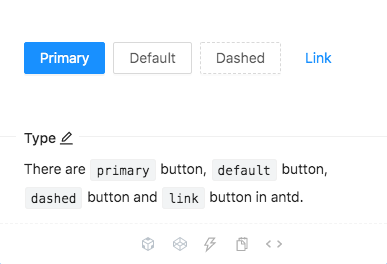
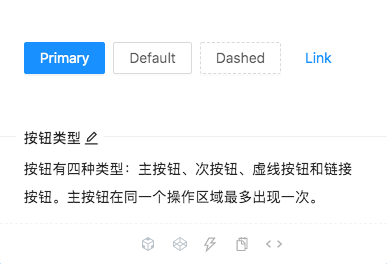
更新图片

Changed region(s): [[0.062, 0.6061, 0.9302, 0.6667], [0.062, 0.697, 0.8062, 0.7879], [0.062, 0.4848, 0.2481, 0.5758]]

diff --git a/src/service/fallback/antd-fallback.js b/src/service/fallback/antd-fallback.js
@@ -19,9 +19,9 @@ export default {
       "features": [
         "antd"
       ],
-      "__HASH__": [
-        "https://derek-hu.github.io/store/screenshots/antd/0-zh-5db07ce7.png"
-      ],
+      "__HASH__": {
+        "zh": "https://derek-hu.github.io/store/screenshots/antd/0-zh-5db07ce7.png"
+      },
       "__DESCRIPTION__": {
         "en": "E-mail Password Confirm Password Nickname Habitual Residence Zhejiang / Hangzhou / West Lake Phone Number +86 Website website Captcha Get captcha We must make sure that your are a human. I have read the agreement Register 注册新用户 用户填写必须的信息以注册新用户。",
         "zh": "E-mail Password Confirm Password Nickname Habitual Residence Zhejiang / Hangzhou / West Lake Phone Number +86 Website website Captcha Get captcha We must make sure that your are a human. I have read the agreement Register 注册新用户 用户填写必须的信息以注册新用户。"
@@ -46,11 +46,11 @@ export default {
       "features": [
         "antd"
       ],
-      "__HASH__": [
-        "https://derek-hu.github.io/store/screenshots/antd/1-zh-9688d9db.png"
-      ],
+      "__HASH__": {
+        "zh": "https://derek-hu.github.io/store/screenshots/antd/1-zh-9688d9db.png"
+      },
       "__DESCRIPTION__": {
-        "zh": "PrimaryDefaultDashedLink Type There are primary button, default button, dashed button and link button in antd."
+        "zh": "PrimaryDefaultDashedLink 按钮类型 按钮有四种类型：主按钮、次按钮、虚线按钮和链接按钮。主按钮在同一个操作区域最多出现一次。"
       }
     },
     {
@@ -72,9 +72,9 @@ export default {
       "features": [
         "antd"
       ],
-      "__HASH__": [
-        "https://derek-hu.github.io/store/screenshots/antd/2-zh-f02d731a.png"
-      ],
+      "__HASH__": {
+        "zh": "https://derek-hu.github.io/store/screenshots/antd/2-zh-f02d731a.png"
+      },
       "__DESCRIPTION__": {
         "zh": "Lucy Lucy Lucy Lucy 基本使用 基本使用。"
       }
@@ -98,11 +98,11 @@ export default {
       "features": [
         "antd"
       ],
-      "__HASH__": [
-        "https://derek-hu.github.io/store/screenshots/antd/3-zh-68a11f95.png"
-      ],
+      "__HASH__": {
+        "zh": "https://derek-hu.github.io/store/screenshots/antd/3-zh-68a11f95.png"
+      },
       "__DESCRIPTION__": {
-        "zh": "Open Modal Basic Basic modal."
+        "zh": "Open Modal 基本 第一个对话框。"
       }
     },
     {
@@ -124,9 +124,9 @@ export default {
       "features": [
         "antd"
       ],
-      "__HASH__": [
-        "https://derek-hu.github.io/store/screenshots/antd/4_846fcc04.png"
-      ],
+      "__HASH__": {
+        "zh": "https://derek-hu.github.io/store/screenshots/antd/4-zh-846fcc04.png"
+      },
       "__DESCRIPTION__": {
         "zh": "Name Age Address Tags Action John Brown 32 New York No. 1 Lake Park NICEDEVELOPER Invite John BrownDelete Jim Green 42 London No. 1 Lake Park LOSER Invite Jim GreenDelete Joe Black 32 Sidney No. 1 Lake Park COOLTEACHER Invite Joe BlackDelete 1 基本用法 简单的表格，最后一列是各种操作。"
       }
@@ -150,9 +150,9 @@ export default {
       "features": [
         "antd"
       ],
-      "__HASH__": [
-        "https://derek-hu.github.io/store/screenshots/antd/5_513c99aa.png"
-      ],
+      "__HASH__": {
+        "zh": "https://derek-hu.github.io/store/screenshots/antd/5-zh-513c99aa.png"
+      },
       "__DESCRIPTION__": {
         "zh": "Remember me Forgot password Log inOr register now! 登录框 普通的登录框，可以容纳更多的元素。"
       }
@@ -176,9 +176,9 @@ export default {
       "features": [
         "antd"
       ],
-      "__HASH__": [
-        "https://derek-hu.github.io/store/screenshots/antd/6_99bde7b7.png"
-      ],
+      "__HASH__": {
+        "zh": "https://derek-hu.github.io/store/screenshots/antd/6-zh-99bde7b7.png"
+      },
       "__DESCRIPTION__": {
         "zh": "Log in 内联登录栏 内联登录栏，常用在顶部导航栏中。"
       }
@@ -202,9 +202,9 @@ export default {
       "features": [
         "antd"
       ],
-      "__HASH__": [
-        "https://derek-hu.github.io/store/screenshots/antd/7_ce94fe8c.png"
-      ],
+      "__HASH__": {
+        "zh": "https://derek-hu.github.io/store/screenshots/antd/7-zh-ce94fe8c.png"
+      },
       "__DESCRIPTION__": {
         "zh": "Plain Text China Select Please select a country Select[multiple] Please select favourite colors InputNumber machines Switch Slider A B C D E F Radio.Group item 1 item 2 item 3 Radio.Button item 1 item 2 item 3 Checkbox.Group A B C D E F Rate Upload Click to upload longgggggggggggggggggggggggggggggggggg Dragger Click or drag file to this area to upload Support for a single or bulk upload. Submit 校验其他组件 以上演示没有出现的表单控件对应的校验演示。"
       }
@@ -228,9 +228,9 @@ export default {
       "features": [
         "antd"
       ],
-      "__HASH__": [
-        "https://derek-hu.github.io/store/screenshots/antd/8_29114c0.png"
-      ],
+      "__HASH__": {
+        "zh": "https://derek-hu.github.io/store/screenshots/antd/8-zh-29114c0.png"
+      },
       "__DESCRIPTION__": {
         "zh": "Large Default Small PrimaryDefaultDashed Link DownloadDownload 按钮尺寸 按钮有大、中、小三种尺寸。 通过设置 size 为 large small 分别把按钮设为大、小尺寸。若不设置 size，则尺寸为中。"
       }
@@ -254,9 +254,9 @@ export default {
       "features": [
         "antd"
       ],
-      "__HASH__": [
-        "https://derek-hu.github.io/store/screenshots/antd/9_e680f2f4.png"
-      ],
+      "__HASH__": {
+        "zh": "https://derek-hu.github.io/store/screenshots/antd/9-zh-e680f2f4.png"
+      },
       "__DESCRIPTION__": {
         "zh": "基本使用 基本使用。"
       }
@@ -280,9 +280,9 @@ export default {
       "features": [
         "antd"
       ],
-      "__HASH__": [
-        "https://derek-hu.github.io/store/screenshots/antd/10_98d497c7.png"
-      ],
+      "__HASH__": {
+        "zh": "https://derek-hu.github.io/store/screenshots/antd/10-zh-98d497c7.png"
+      },
       "__DESCRIPTION__": {
         "zh": " Search 搜索框 带有搜索按钮的输入框。"
       }
@@ -306,11 +306,12 @@ export default {
       "features": [
         "antd"
       ],
-      "__HASH__": [
-        "https://derek-hu.github.io/store/screenshots/antd/11_8b17d49b.png"
-      ],
+      "__HASH__": {
+        "zh": "https://derek-hu.github.io/store/screenshots/antd/11-zh-8b17d49b.png"
+      },
       "__DESCRIPTION__": {
-        "en": "col col-12 col-12 col-8 col-8 col-8 col-6 col-6 col-6 col-6 基础栅格 从堆叠到水平排列。 使用单一的一组 Row 和 Col 栅格组件，就可以创建一个基本的栅格系统，所有列（Col）必须放在 Row 内。"
+        "en": "col col-12 col-12 col-8 col-8 col-8 col-6 col-6 col-6 col-6 基础栅格 从堆叠到水平排列。 使用单一的一组 Row 和 Col 栅格组件，就可以创建一个基本的栅格系统，所有列（Col）必须放在 Row 内。",
+        "zh": "col col-12 col-12 col-8 col-8 col-8 col-6 col-6 col-6 col-6 基础栅格 从堆叠到水平排列。 使用单一的一组 Row 和 Col 栅格组件，就可以创建一个基本的栅格系统，所有列（Col）必须放在 Row 内。"
       }
     },
     {
@@ -332,11 +333,12 @@ export default {
       "features": [
         "antd"
       ],
-      "__HASH__": [
-        "https://derek-hu.github.io/store/screenshots/antd/12_4679a3e0.png"
-      ],
+      "__HASH__": {
+        "zh": "https://derek-hu.github.io/store/screenshots/antd/12-zh-4679a3e0.png"
+      },
       "__DESCRIPTION__": {
-        "en": "Select a person 带搜索框 展开后可对选项进行搜索。"
+        "en": "Select a person 带搜索框 展开后可对选项进行搜索。",
+        "zh": "Select a person 带搜索框 展开后可对选项进行搜索。"
       }
     },
     {
@@ -358,10 +360,12 @@ export default {
       "features": [
         "antd"
       ],
-      "__HASH__": [
-        "https://derek-hu.github.io/store/screenshots/antd/13_b475160.png"
-      ],
-      "__DESCRIPTION__": "Fail Should be combination of numbers & alphabets Warning Validating The information is being validated... Success Warning Fail Should be combination of numbers & alphabets Success Warning Error Validating The information is being validated... inline Please select the correct date - Success Success Warning Error 自定义校验 我们提供了 validateStatus help hasFeedback 等属性，你可以不通过 Form 自己定义校验的时机和内容。 validateStatus: 校验状态，可选 'success', 'warning', 'error', 'validating'。 hasFeedback：用于给输入框添加反馈图标。 help：设置校验文案。"
+      "__HASH__": {
+        "zh": "https://derek-hu.github.io/store/screenshots/antd/13-zh-b475160.png"
+      },
+      "__DESCRIPTION__": {
+        "zh": "Fail Should be combination of numbers & alphabets Warning Validating The information is being validated... Success Warning Fail Should be combination of numbers & alphabets Success Warning Error Validating The information is being validated... inline Please select the correct date - Success Success Warning Error 自定义校验 我们提供了 validateStatus help hasFeedback 等属性，你可以不通过 Form 自己定义校验的时机和内容。 validateStatus: 校验状态，可选 'success', 'warning', 'error', 'validating'。 hasFeedback：用于给输入框添加反馈图标。 help：设置校验文案。"
+      }
     },
     {
       "title": "date-picker-基本",
@@ -382,10 +386,12 @@ export default {
       "features": [
         "antd"
       ],
-      "__HASH__": [
-        "https://derek-hu.github.io/store/screenshots/antd/14_7531a55c.png"
-      ],
-      "__DESCRIPTION__": " 基本 最简单的用法，在浮层中可以选择或者输入日期。"
+      "__HASH__": {
+        "zh": "https://derek-hu.github.io/store/screenshots/antd/14-zh-7531a55c.png"
+      },
+      "__DESCRIPTION__": {
+        "zh": " 基本 最简单的用法，在浮层中可以选择或者输入日期。"
+      }
     },
     {
       "title": "tabs-基本",
@@ -406,10 +412,12 @@ export default {
       "features": [
         "antd"
       ],
-      "__HASH__": [
-        "https://derek-hu.github.io/store/screenshots/antd/15_28580c43.png"
-      ],
-      "__DESCRIPTION__": "Tab 1Tab 2Tab 3 Content of Tab Pane 1 基本 默认选中第一项。"
+      "__HASH__": {
+        "zh": "https://derek-hu.github.io/store/screenshots/antd/15-zh-28580c43.png"
+      },
+      "__DESCRIPTION__": {
+        "zh": "Tab 1Tab 2Tab 3 Content of Tab Pane 1 基本 默认选中第一项。"
+      }
     },
     {
       "title": "checkbox-基本用法",
